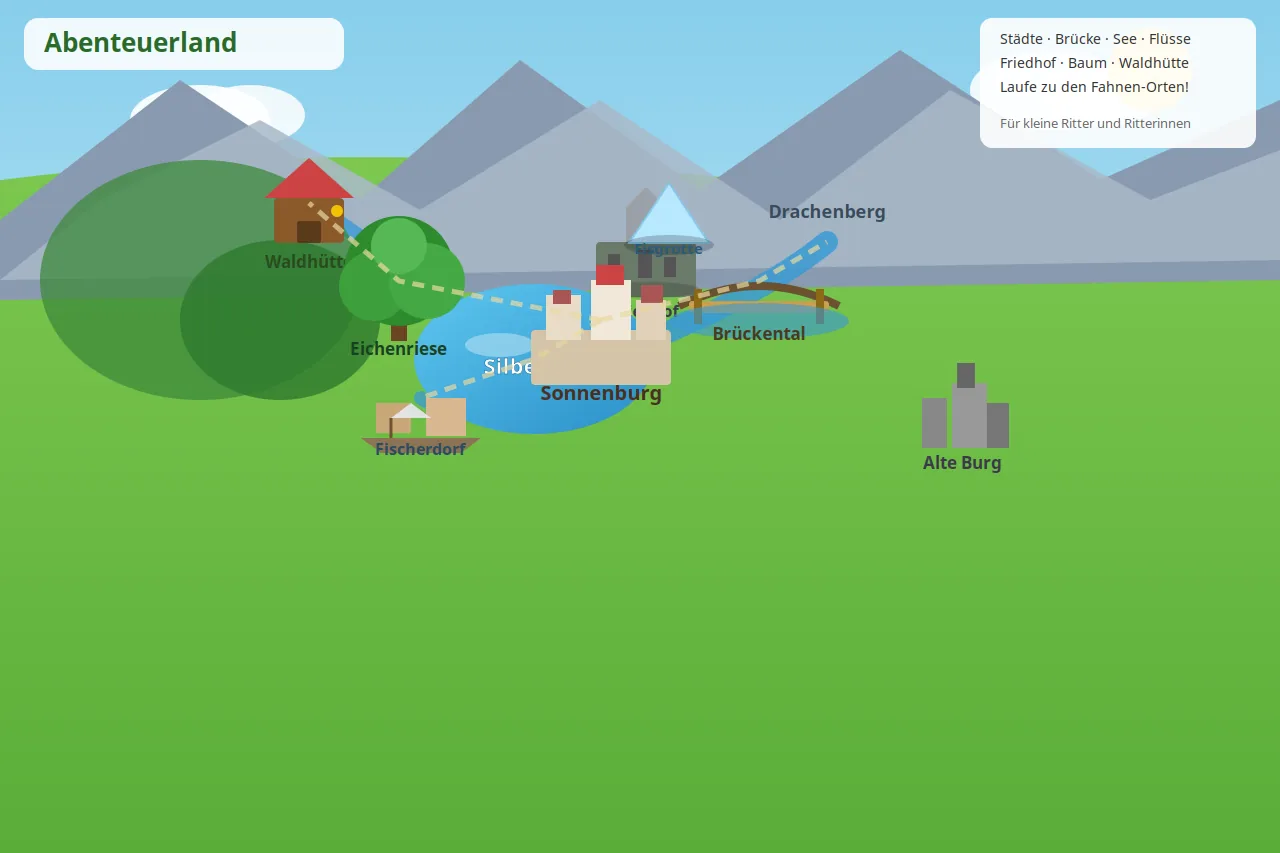
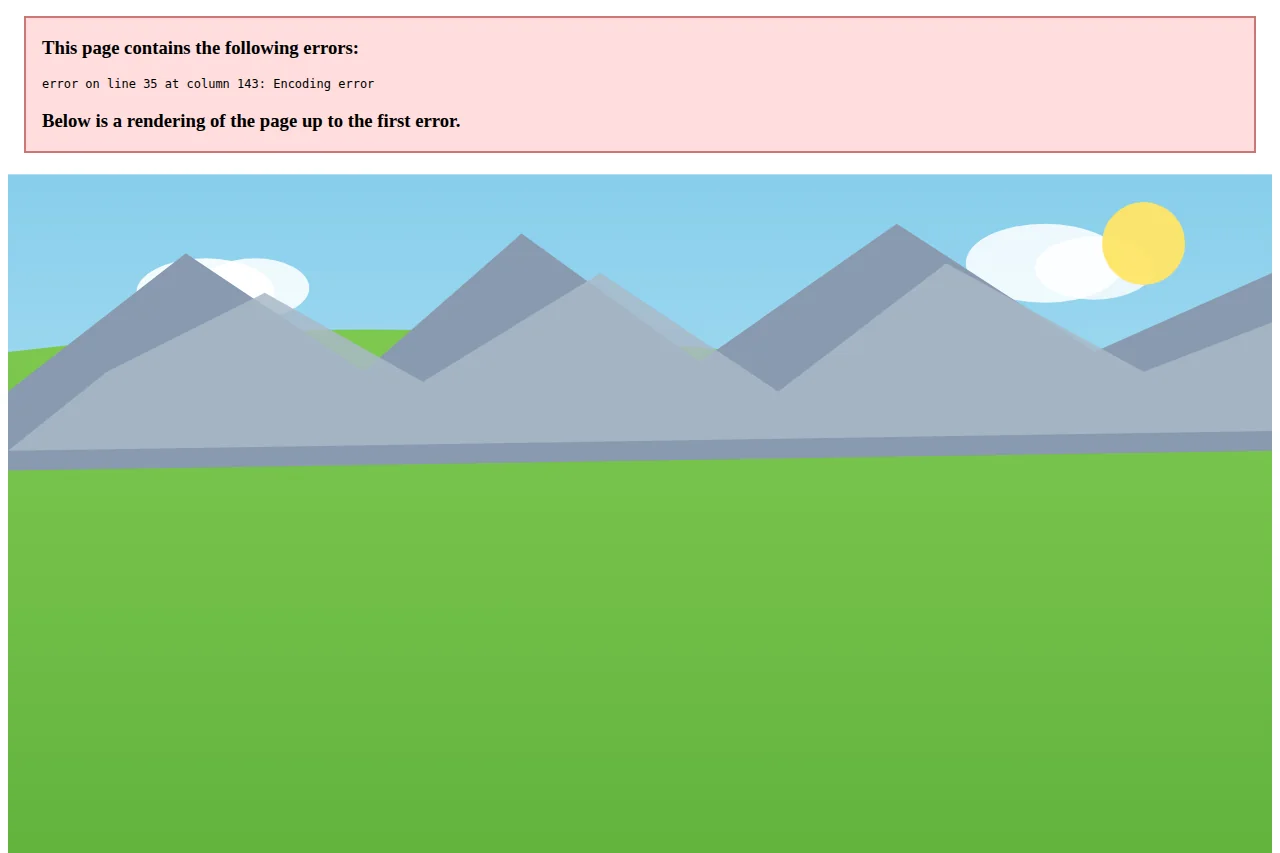
Replace Abenteuerland map with detailed fantasy world map
- Use provided Inkarnate-style map (1280×853) as PNG/WebP/JPG
- Align ten quest locations to landmarks on the new map
- Remove hand-drawn SVG; update build script for PNG source

diff --git a/index.html b/index.html
@@ -6,7 +6,7 @@
   <title>Ritter auf Faerûn</title>
   <link rel="preload" as="image" href="assets/karte.webp" type="image/webp" />
   <link rel="preload" as="image" href="assets/aaaaGemini_Generated_Image_6ettsz6ettsz6ett.webp" type="image/webp" />
-  <link rel="stylesheet" href="style.css?v=12" />
+  <link rel="stylesheet" href="style.css?v=13" />
 </head>
 <body>
   <main class="game-wrap">
@@ -108,9 +108,9 @@
   </main>
 
   <script src="https://unpkg.com/html5-qrcode@2.3.8/html5-qrcode.min.js"></script>
-  <script src="js/data.js?v=12"></script>
-  <script src="js/scanner.js?v=12"></script>
-  <script src="js/battle.js?v=12"></script>
-  <script src="js/map.js?v=12"></script>
+  <script src="js/data.js?v=13"></script>
+  <script src="js/scanner.js?v=13"></script>
+  <script src="js/battle.js?v=13"></script>
+  <script src="js/map.js?v=13"></script>
 </body>
 </html>

diff --git a/js/map.js b/js/map.js
@@ -21,7 +21,7 @@ const MAP_ASSETS = {
   kinder: [
     "assets/karte-kinder.webp",
     "assets/karte-kinder.jpg",
-    "assets/karte-kinder.svg",
+    "assets/karte-kinder.png",
   ],
 };
 

diff --git a/scripts/build_kinder_map.py b/scripts/build_kinder_map.py
@@ -1,25 +1,23 @@
 #!/usr/bin/env python3
-"""Erzeugt assets/karte-kinder.webp und .jpg aus der SVG-Vorlage."""
+"""Erzeugt WebP/JPG aus assets/karte-kinder.png (Fantasy-Karte)."""
 from __future__ import annotations
 
-import io
 from pathlib import Path
 
-import cairosvg
 from PIL import Image
 
 ROOT = Path(__file__).resolve().parents[1]
-SVG = ROOT / "assets" / "karte-kinder.svg"
+PNG = ROOT / "assets" / "karte-kinder.png"
 WEBP = ROOT / "assets" / "karte-kinder.webp"
 JPG = ROOT / "assets" / "karte-kinder.jpg"
-SIZE = (1280, 853)
 
 
 def main() -> None:
-    png = cairosvg.svg2png(url=str(SVG), output_width=SIZE[0], output_height=SIZE[1])
-    img = Image.open(io.BytesIO(png)).convert("RGB")
-    img.save(WEBP, "WEBP", quality=82, method=6)
-    img.save(JPG, "JPEG", quality=85, optimize=True)
+    if not PNG.is_file():
+        raise SystemExit(f"Fehlt: {PNG}")
+    img = Image.open(PNG).convert("RGB")
+    img.save(WEBP, "WEBP", quality=85, method=6)
+    img.save(JPG, "JPEG", quality=88, optimize=True)
     print(f"OK: {WEBP.name} ({WEBP.stat().st_size} B), {JPG.name} ({JPG.stat().st_size} B)")
 
 

diff --git a/README.md b/README.md
@@ -28,7 +28,7 @@ Dateien in `assets/` ersetzen:
 | Datei | Inhalt |
 |--------|--------|
 | `karte.webp` / `karte.jpg` | Fantasy-Karte (klein, schnell) |
-| `karte-kinder.webp` / `.jpg` / `.svg` | Kindgerechte Karte (WebP bevorzugt im Spiel) |
+| `karte-kinder.png` / `.webp` / `.jpg` | Fantasy-Weltkarte für Abenteuerland (Orte in `locations-kinder.json`) |
 | `aaaaGemini_….webp` / `.png` | Ritter-Figur |
 
 ## Steuerung